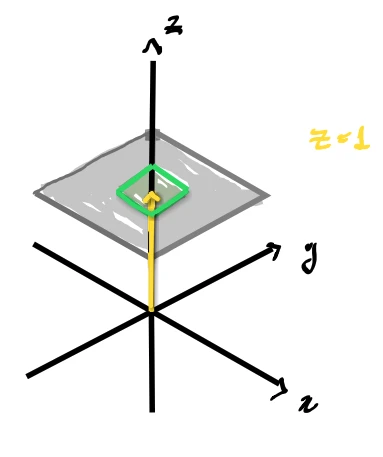
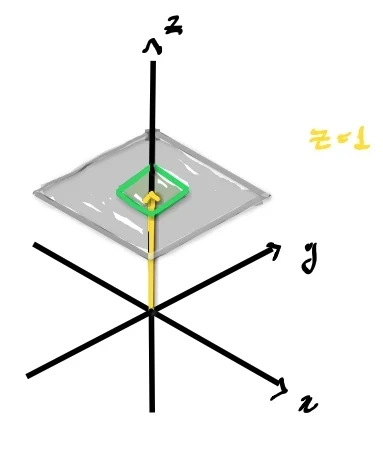
docs: update homogeneous screen analogy section header and diagrams

diff --git a/01_Concepts/04_Transforms/07_Homogeneous_Coordinates.md b/01_Concepts/04_Transforms/07_Homogeneous_Coordinates.md
@@ -24,7 +24,7 @@ Because of this property, a single point in 3D Euclidean space corresponds to an
 
 ---
 
-## 2. The Projection Screen Analogy (The $z = 1$ Plane)
+## 2. The Projection Screen Analogy (The $w = 1$ Plane)
 
 With homogeneous coordinates, we can represent $n$-dimensional points using $n+1$ components. For example, we can map a 3D space to a 4-dimensional projective space ($\mathbb{P}^3$), or a 2D space to a 3-dimensional projective space ($\mathbb{P}^2$), which is much easier to visualize.
 